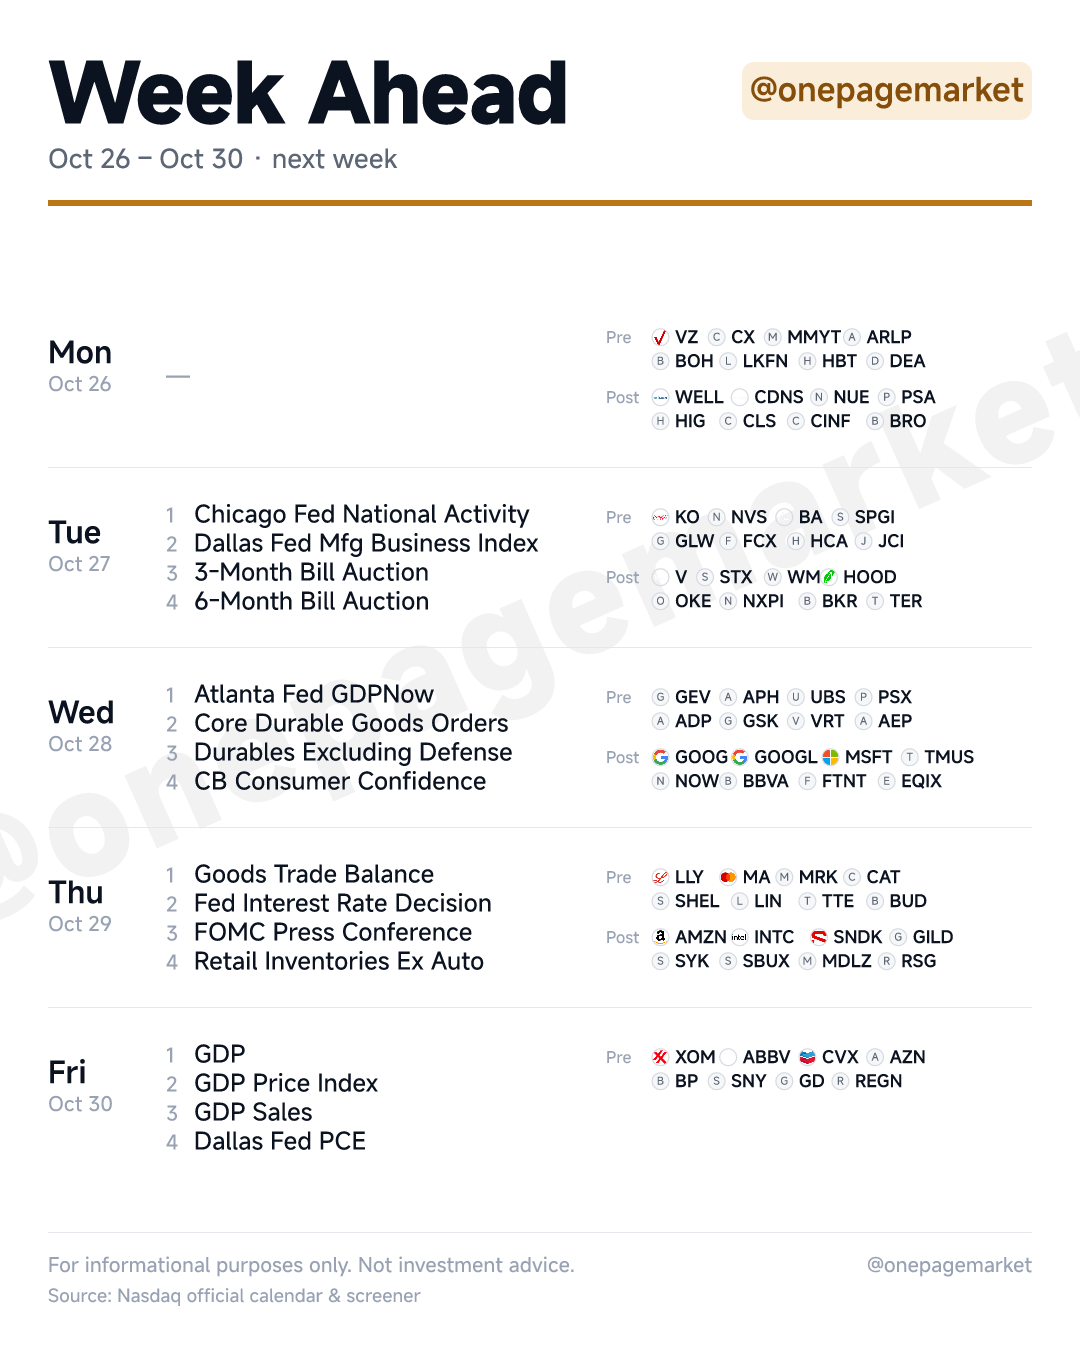
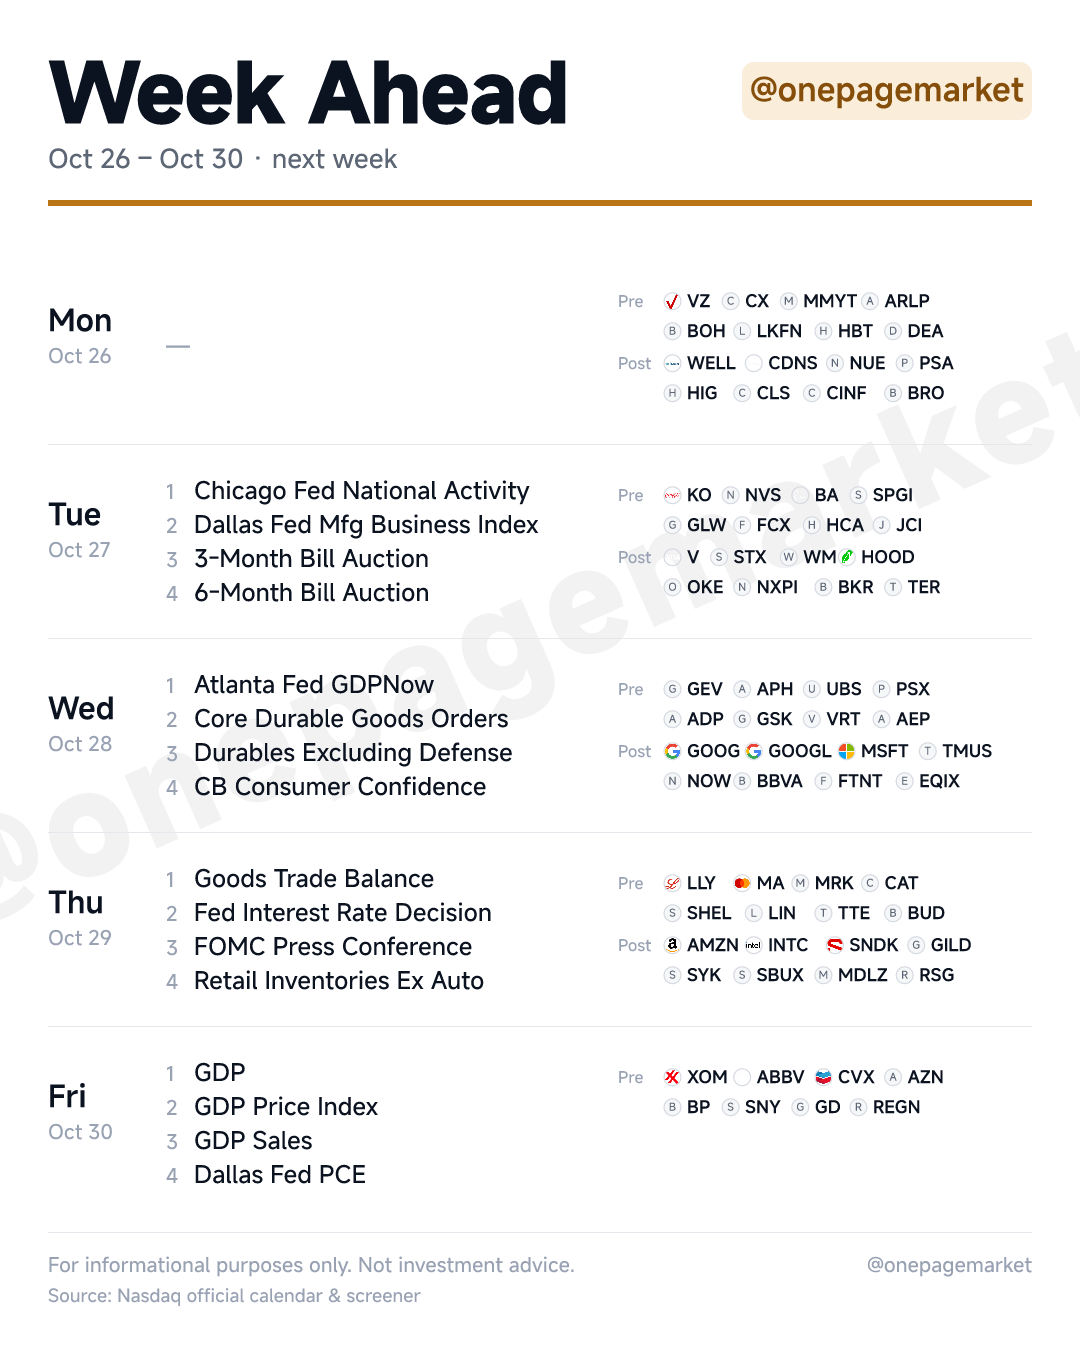
feat: Week Ahead 5 天平均分配全頁，經濟數據與財報間距放寬

diff --git a/docs/index.html b/docs/index.html
@@ -43,7 +43,7 @@
 </style></head>
 <body>
 <header><h1>@onepagemarket</h1>
-<div class="sub">每日行情卡片 · 更新於 2026-10-21 13:32</div></header>
+<div class="sub">每日行情卡片 · 更新於 2026-10-21 13:39</div></header>
 <div class="rule"></div>
 <main>
 <section class="sec"><div class="ghead"><b>On Deck</b><span class="day">Wed, Oct 21 · 3 張</span></div><div class="tweet"><button class="copy" data-t="On Deck for today: Atlanta Fed GDPNow; Housing Starts; Building Permits. 91 companies report — PM, TMO, ABT before the open, META, TSLA, LRCX after the close. 🧵">複製文案</button><p>On Deck for today: Atlanta Fed GDPNow; Housing Starts; Building Permits. 91 companies report — PM, TMO, ABT before the open, META, TSLA, LRCX after the close. 🧵</p><span class="len">160 字</span></div><div class="shots"><div class="shot"><a class="link" href="img/on-deck-20261021.png" target="_blank"><img src="img/on-deck-20261021.png" loading="lazy" alt="on-deck-20261021.png"></a></div><div class="shot"><a class="link" href="img/winners-losers-20261021.png" target="_blank"><img src="img/winners-losers-20261021.png" loading="lazy" alt="winners-losers-20261021.png"></a></div><div class="shot"><a class="link" href="img/week-ahead-20261021.png" target="_blank"><img src="img/week-ahead-20261021.png" loading="lazy" alt="week-ahead-20261021.png"></a></div></div></section><section class="sec"><div class="ghead"><b>On Deck</b><span class="day">Tue, Oct 20 · 3 張</span></div><div class="tweet"><button class="copy" data-t="On Deck for today: NAHB Housing Market Index; 3-Month Bill Auction; 6-Month Bill Auction. 55 companies report — GE, RTX, MMM before the open, NFLX, ISRG, CB after the close. 🧵">複製文案</button><p>On Deck for today: NAHB Housing Market Index; 3-Month Bill Auction; 6-Month Bill Auction. 55 companies report — GE, RTX, MMM before the open, NFLX, ISRG, CB after the close. 🧵</p><span class="len">175 字</span></div><div class="shots"><div class="shot"><a class="link" href="img/on-deck-20261020.png" target="_blank"><img src="img/on-deck-20261020.png" loading="lazy" alt="on-deck-20261020.png"></a></div><div class="shot"><a class="link" href="img/winners-losers-20261020.png" target="_blank"><img src="img/winners-losers-20261020.png" loading="lazy" alt="winners-losers-20261020.png"></a></div><div class="shot"><a class="link" href="img/week-ahead-20261020.png" target="_blank"><img src="img/week-ahead-20261020.png" loading="lazy" alt="week-ahead-20261020.png"></a></div></div></section><section class="sec"><div class="ghead"><b>The Close</b><span class="day">Tue, Oct 20 · 1 張</span></div><div class="tweet"><button class="copy" data-t="The Close: S&amp;P 500 +0.28% · Nasdaq -0.02% · Russell 2000 +1.65%. Most traded: MU, NVDA, AMZN. Breadth 35% advancers. 🧵">複製文案</button><p>The Close: S&amp;P 500 +0.28% · Nasdaq -0.02% · Russell 2000 +1.65%. Most traded: MU, NVDA, AMZN. Breadth 35% advancers. 🧵</p><span class="len">118 字</span></div><div class="shots"><div class="shot"><a class="link" href="img/the-close-20261020.png" target="_blank"><img src="img/the-close-20261020.png" loading="lazy" alt="the-close-20261020.png"></a></div></div></section><section class="sec"><div class="ghead"><b>The Close</b><span class="day">Mon, Oct 19 · 1 張</span></div><div class="tweet"><button class="copy" data-t="The Close: S&amp;P 500 +0.28% · Nasdaq -0.02% · Russell 2000 +1.65%. Most traded: MU, NVDA, AMZN. Breadth 35% advancers. 🧵">複製文案</button><p>The Close: S&amp;P 500 +0.28% · Nasdaq -0.02% · Russell 2000 +1.65%. Most traded: MU, NVDA, AMZN. Breadth 35% advancers. 🧵</p><span class="len">118 字</span></div><div class="shots"><div class="shot"><a class="link" href="img/the-close-20261019.png" target="_blank"><img src="img/the-close-20261019.png" loading="lazy" alt="the-close-20261019.png"></a></div></div></section>

diff --git a/scripts/build_pages.js b/scripts/build_pages.js
@@ -206,38 +206,37 @@ function buildWeekAhead() {
   const days = (D.week_ahead || {}).days || [];
   const a = scaffold('Week Ahead', `${days.length ? days[0].date : ''} – ${days.length ? days[days.length - 1].date : ''} · next week`);
 
-  const BLOCK = 180, areaTop = 250, areaBottom = H - 126;
-  const contentH = days.length * BLOCK;
-  const start = Math.round(areaTop + Math.max(0, (areaBottom - areaTop - contentH) / 2));
-
-  const TX = M + 558;                    // 右側個股區起點
+  // 5 天在金色橫線以下整個區域「平均分配」，不再整塊居中
+  const areaTop = 250, areaBottom = H - 126;
+  const RH = Math.floor((areaBottom - areaTop) / Math.max(1, days.length));
+  const TX = M + 570;                    // 右側個股區起點（與左側數據留出間距）
   days.forEach((d, i) => {
-    const y = start + i * BLOCK;
+    const y = areaTop + i * RH;
     if (i > 0) a.push(`<rect x="${M}" y="${y}" width="${CW}" height="1" fill="${C.line}"/>`);  // 第一行不畫線（上方已有金色粗橫線）
-    const mid = y + BLOCK / 2;
+    const mid = y + RH / 2;
 
-    a.push(t(M, mid - 14, d.day, { size: 30, weight: 500 }));
-    a.push(t(M, mid + 14, d.date, { size: 20, fill: C.dim }));
+    a.push(t(M, mid - 16, d.day, { size: 30, weight: 500 }));
+    a.push(t(M, mid + 16, d.date, { size: 20, fill: C.dim }));
 
-    // 經濟數據 3-4 行（帶序號），垂直居中
+    // 經濟數據 3-4 行（帶序號），行距放寬、垂直居中
     const econ = (d.econ || []).slice(0, 4);
-    const step = 29;
+    const step = 34;
     const n = Math.max(1, econ.length);
     const sy = mid - (n * step) / 2 + step / 2 + 9;
     econ.forEach((ev, j) => {
       a.push(t(M + 118, sy + j * step, `${j + 1}`, { size: 20, fill: C.dim }));
-      a.push(t(M + 146, sy + j * step, clip(ev, 31), { size: 24 }));
+      a.push(t(M + 146, sy + j * step, clip(ev, 29), { size: 24 }));
     });
     if (!econ.length) a.push(t(M + 118, mid + 9, '—', { size: 24, fill: C.dim }));
 
-    // 右側：盤前 / 盤後 財報（各最多 8 家，兩行），結構同原 Earnings Week
-    const groups = [['Pre', d.before || [], -40], ['Post', d.after || [], 20]];
+    // 右側：盤前 / 盤後 財報（各最多 8 家，兩行），行距放寬
+    const groups = [['Pre', d.before || [], -46], ['Post', d.after || [], 16]];
     groups.forEach(([lab, list, dy]) => {
       if (!list.length) return;          // 無財報的日子不顯示空標籤
       a.push(t(TX, mid + dy + 6, lab, { size: 16, fill: C.dim }));
       const r1 = list.slice(0, 4), r2 = list.slice(4, 8);
-      a.push(tickerRow(r1, TX + 46, mid + dy + 6, { size: 17, logo: 17, gap: 10, max: 4 }));
-      if (r2.length) a.push(tickerRow(r2, TX + 46, mid + dy + 30, { size: 17, logo: 17, gap: 10, max: 4 }));
+      a.push(tickerRow(r1, TX + 46, mid + dy + 6, { size: 17, logo: 17, gap: 12, max: 4 }));
+      if (r2.length) a.push(tickerRow(r2, TX + 46, mid + dy + 36, { size: 17, logo: 17, gap: 12, max: 4 }));
     });
   });
 
